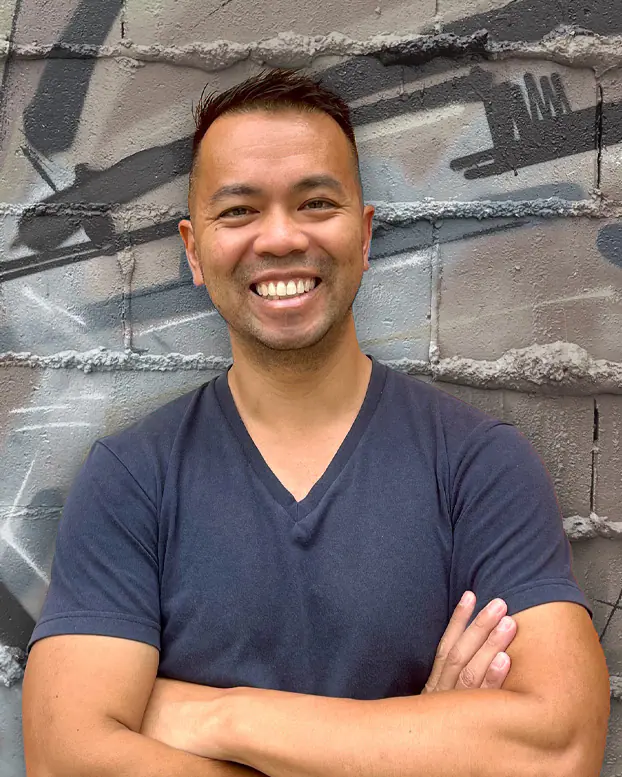
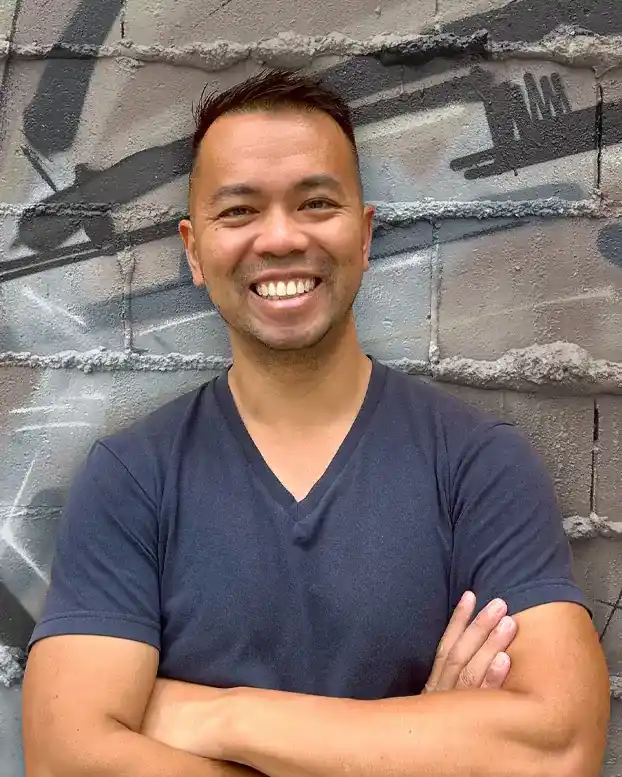
YouTube: bump CF upstream cache buster v=4 -> v=5 after GCP unrestriction

Changed region(s): [[0.2749, 0.278, 0.3055, 0.3089]]

diff --git a/src/worker.js b/src/worker.js
@@ -397,7 +397,7 @@ async function handleYouTube(env, ctx) {
   // failed response (e.g. a stale 403) got stuck in cache.
   const upstream =
     `https://www.googleapis.com/youtube/v3/playlistItems` +
-    `?part=snippet&playlistId=${uploadsId}&maxResults=6&key=${env.YOUTUBE_API_KEY}&_v=4`;
+    `?part=snippet&playlistId=${uploadsId}&maxResults=6&key=${env.YOUTUBE_API_KEY}&_v=5`;
 
   let data;
   try {